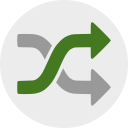
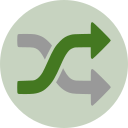
set up message passing, but it doesn't work

diff --git a/app/scripts.babel/contentscript.js b/app/scripts.babel/contentscript.js
@@ -38,7 +38,7 @@
     element.setAttribute('href', '#');
     element.style.pointerEvents = 'none';
 
-    addDisabledClass();
+    addDisabledClass(element);
   }
 
   function disableButton(element) {
@@ -46,7 +46,7 @@
 
     element.setAttribute('disabled', 'disabled');
 
-    addDisabledClass();
+    addDisabledClass(element);
   }
 
   function disableElement(element) {
@@ -69,11 +69,28 @@
     document.querySelectorAll(disabledClass).forEach(enableElement);
   }
 
+  function onMessage(message) {
+    console.log('onMessage', message);
+    if (!message) return;
+
+    const { shouldDisableRandom } = message;
+    console.log('shouldDisableRandom', shouldDisableRandom);
+
+    if (shouldDisableRandom) {
+      disableRandom();
+    } else {
+      reenableRandom();
+    }
+  }
+
   // Start by always turning off the random buttons.
-  reenableRandom();
   disableRandom();
 
+  console.log('sending requests');
   // Check with the background to get the button status.
+  chrome.runtime.sendMessage({ type: 'get-status' }, onMessage);
+  // React to any messages from icon clicks.
+  chrome.runtime.onMessage.addListener(onMessage);
 
   // const element = document.querySelector('foo');
 })();

diff --git a/app/scripts.babel/background.js b/app/scripts.babel/background.js
@@ -1,9 +1,36 @@
 'use strict';
 
-chrome.runtime.onInstalled.addListener(details => {
-  console.log('previousVersion', details.previousVersion);
-});
+let enabled = true;
 
-chrome.browserAction.setBadgeText({ text: "'Allo" });
+const enabledIcon = 'images/icon-38.png';
+const disabledIcon = 'images/dark-icon-38.png';
 
-console.log("'Allo 'Allo! Event Page for Browser Action");
+function shouldDisableRandomMessage() {
+  return { shouldDisableRandom: enabled };
+}
+
+function updateIcon() {
+  chrome.browserAction.setIcon({
+    path: enabled ? enabledIcon : disabledIcon
+  });
+}
+
+function updateContentScript() {
+  chrome.runtime.sendMessage(shouldDisableRandomMessage());
+}
+
+function onIconClick() {
+  enabled = !enabled;
+  console.log('onIconClick', enabled);
+  updateIcon();
+  updateContentScript();
+}
+
+function onContentScriptRequest(request, sender, sendResponse) {
+  console.log('got request');
+  if (request.type !== 'get-status') return;
+  sendResponse(shouldDisableRandomMessage());
+}
+
+chrome.browserAction.onClicked.addListener(onIconClick);
+chrome.runtime.onMessageExternal.addListener(onContentScriptRequest);

diff --git a/app/options.html b/app/options.html
@@ -1,24 +1,28 @@
 <!doctype html>
 <html>
-  <head>
-    <!-- build:css styles/options-vendor.css -->
-    <!-- bower:css -->
-    <!-- endbower -->
-    <!-- endbuild -->
-    <!-- build:css styles/main.css -->
-    <link href="styles/main.css" rel="stylesheet">
-    <!-- endbuild -->
-  </head>
-  <body>
-    <h1>'Allo, 'Allo!</h1>
 
-    <!-- build:js scripts/options-vendor.js -->
-    <!-- bower:js -->
-    <!-- endbower -->
-    <!-- endbuild -->
+<head>
+  <!-- build:css styles/options-vendor.css -->
+  <!-- bower:css -->
+  <!-- endbower -->
+  <!-- endbuild -->
+  <!-- build:css styles/main.css -->
+  <link href="styles/main.css" rel="stylesheet">
+  <!-- endbuild -->
+</head>
 
-    <!-- build:js scripts/options.js -->
-    <script src="scripts/options.js"></script>
-    <!-- endbuild -->
-  </body>
+<body>
+  <h1>Custom selectors:</h1>
+  <p>Coming soon!</p>
+
+  <!-- build:js scripts/options-vendor.js -->
+  <!-- bower:js -->
+  <!-- endbower -->
+  <!-- endbuild -->
+
+  <!-- build:js scripts/options.js -->
+  <script src="scripts/options.js"></script>
+  <!-- endbuild -->
+</body>
+
 </html>

diff --git a/.eslintrc.js b/.eslintrc.js
@@ -12,7 +12,8 @@ module.exports = {
     'no-unused-vars': ['error', { argsIgnorePattern: '^_' }],
     'no-console': 'off',
     'prefer-destructuring': 'off',
-    'no-param-reassign': ['error', { props: false }]
+    'no-param-reassign': ['error', { props: false }],
+    'func-names': 'off'
   },
   globals: {
     chrome: true,
